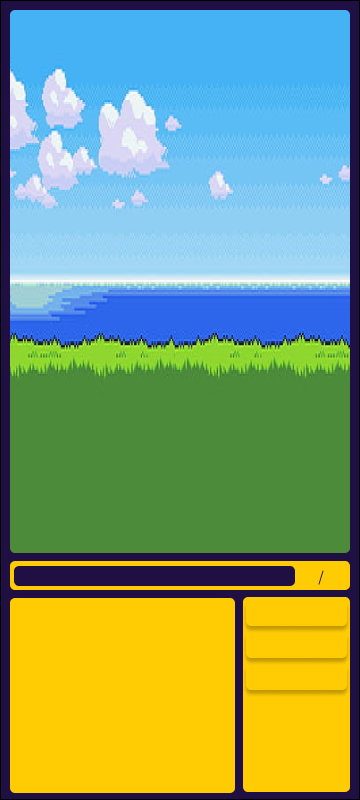
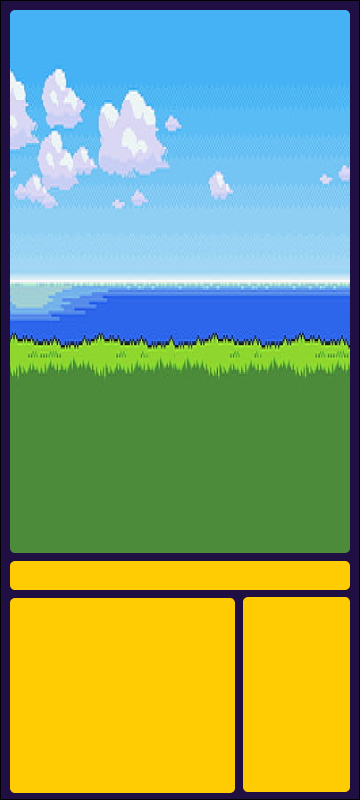
Update CSS

Changed region(s): [[0.0306, 0.6875, 0.825, 0.75], [0.6722, 0.7812, 0.9778, 0.875]]

diff --git a/vue/game/FightPVE.js b/vue/game/FightPVE.js
@@ -300,8 +300,8 @@ export default function FightPVE({ navigation, route }) {
   // Fonction de MAJ de la TextBox
   const updateTextBox = function (text) {
     textBox.unshift(text);
-    if (textBox.length > 10) {
-      textBox.length = 10;
+    if (textBox.length > 8) {
+      textBox.length = 8;
     }
     // MAJ d'une variable inutile pour MAJ affichage
     setMajTextBox(Math.random());
@@ -359,22 +359,23 @@ export default function FightPVE({ navigation, route }) {
           {/* HealthBar Adverse + Affichage Pokemon + Vie Pokemon sauvage*/}
           {showPokemonAdv && (
             <Shake value={advAnimation} type="timing">
-                <HealthBar
-                  styleHealthBar={styles.advHealthBar}
-                  progressHealthBar={advHealth / advMaxHealth}
-                  colorHealthBar={ColorHealthBar(advHealth / advMaxHealth)}
-                  widthHealthBar={100}
-                  heigthHealthBar={10}
-                />
-                <Image style={styles.imgAdvPokemon} source={srcAdvPokemon} />
-                <Text style={styles.advHealth}>{advHealth} /</Text>
-                <Text style={styles.advMaxHealth}>{advMaxHealth}</Text>
+              <HealthBar
+                styleHealthBar={styles.advHealthBar}
+                progressHealthBar={advHealth / advMaxHealth}
+                colorHealthBar={ColorHealthBar(advHealth / advMaxHealth)}
+                widthHealthBar={100}
+                heigthHealthBar={10}
+              />
+              <Image style={styles.imgAdvPokemon} source={srcAdvPokemon} />
+              <Text style={styles.advHealth}>
+                {advHealth} / {advMaxHealth}
+              </Text>
             </Shake>
           )}
           {/* Gestion affichage Pokemon */}
           {showOurPokemon && (
             <Shake value={ourAnimation} type="timing">
-                <Image style={styles.imgOurPokemon} source={srcOurPokemon} />
+              <Image style={styles.imgOurPokemon} source={srcOurPokemon} />
             </Shake>
           )}
           {/* Gestion affichage dresseur */}
@@ -393,8 +394,9 @@ export default function FightPVE({ navigation, route }) {
               heigthHealthBar={25}
             />
             {/* Affichage Notre Vie */}
-            <Text style={styles.ourHealth}>{ourHealth}</Text>
-            <Text style={styles.ourMaxHealth}>{ourMaxHealth}</Text>
+            <Text style={styles.ourHealth}>
+              {ourHealth} / {ourMaxHealth}
+            </Text>
           </View>
 
           <View style={styles.viewTextAndButton}>
@@ -402,7 +404,7 @@ export default function FightPVE({ navigation, route }) {
               {/* TextBox */}
               <View style={styles.textBox}>
                 {textBox.map((ligne) => {
-                  return <Text style={styles.pixelPolice}>● {ligne}</Text>;
+                  return <Text style={styles.lineOfTextBox}>● {ligne}</Text>;
                 })}
                 {/* Modal pour les attaques */}
                 <Modal
@@ -422,7 +424,7 @@ export default function FightPVE({ navigation, route }) {
                                 setShowModalAttack(!showModalAttack);
                             }}
                           >
-                            <Text style={styles.textModal}>{el.name}</Text>
+                            <Text style={styles.textButton}>{el.name}</Text>
                           </Pressable>
                         );
                       })}
@@ -432,7 +434,7 @@ export default function FightPVE({ navigation, route }) {
                           setShowModalAttack(!showModalAttack);
                         }}
                       >
-                        <Text style={styles.textModal}>RETOUR</Text>
+                        <Text style={styles.textButton}>RETOUR</Text>
                       </Pressable>
                     </View>
                   </View>
@@ -464,12 +466,12 @@ export default function FightPVE({ navigation, route }) {
                             }}
                           >
                             {el.needAlive && (
-                              <Text style={styles.textModal}>
+                              <Text style={styles.textButton}>
                                 {el.name} (+{el.effect}PV) x{el.qty}
                               </Text>
                             )}
                             {!el.needAlive && (
-                              <Text style={styles.textModal}>
+                              <Text style={styles.textButton}>
                                 {el.name} ({el.effect}% PV MAX) x{el.qty}
                               </Text>
                             )}
@@ -482,7 +484,7 @@ export default function FightPVE({ navigation, route }) {
                           setShowModalBag(!showModalBag);
                         }}
                       >
-                        <Text style={styles.textModal}>RETOUR</Text>
+                        <Text style={styles.textButton}>RETOUR</Text>
                       </Pressable>
                     </View>
                   </View>
@@ -511,7 +513,7 @@ export default function FightPVE({ navigation, route }) {
                                   setShowModalPokemon(!showModalPokemon);
                                 }}
                               >
-                                <Text style={styles.textModal}>
+                                <Text style={styles.textButton}>
                                   {el.label} - {el.PV["current"]}/{el.PV["max"]}
                                   PV
                                 </Text>
@@ -533,13 +535,13 @@ export default function FightPVE({ navigation, route }) {
                                 }}
                               >
                                 {index != numOurPokemon && (
-                                  <Text style={styles.textModal}>
+                                  <Text style={styles.textButton}>
                                     {el.label} - {el.PV["current"]}/
                                     {el.PV["max"]}PV
                                   </Text>
                                 )}
                                 {index == numOurPokemon && (
-                                  <Text style={styles.textModal}>
+                                  <Text style={styles.textButton}>
                                     {el.label}
                                   </Text>
                                 )}
@@ -560,7 +562,7 @@ export default function FightPVE({ navigation, route }) {
                                   setShowModalPokemon(!showModalPokemon);
                                 }}
                               >
-                                <Text style={styles.textModal}>
+                                <Text style={styles.textButton}>
                                   {el.label} - {el.PV["current"]}/{el.PV["max"]}
                                   PV
                                 </Text>
@@ -580,7 +582,7 @@ export default function FightPVE({ navigation, route }) {
                             setModalDisplayForChange(() => false);
                           }}
                         >
-                          <Text style={styles.textModal}>RETOUR</Text>
+                          <Text style={styles.textButton}>RETOUR</Text>
                         </Pressable>
                       )}
                     </View>
@@ -592,27 +594,27 @@ export default function FightPVE({ navigation, route }) {
             <View style={styles.viewButton}>
               {/* Bouttons */}
               {!hiddenButtonOfMenu && (
-                <View>
+                <View style={styles.viewButton}>
                   <Pressable
-                    style={styles.buttonAttack}
+                    style={styles.button}
                     onPress={() => setShowModalAttack(!showModalAttack)}
                   >
-                    <Text style={styles.pixelPolice}>ATTAQUER</Text>
+                    <Text style={styles.textButton}>ATTAQUER</Text>
                   </Pressable>
                   <Pressable
-                    style={styles.buttonBag}
+                    style={styles.button}
                     onPress={() => setShowModalBag(!showModalBag)}
                   >
-                    <Text style={styles.pixelPolice}>SAC</Text>
+                    <Text style={styles.textButton}>SAC</Text>
                   </Pressable>
                   <Pressable
-                    style={styles.buttonPokemon}
+                    style={styles.button}
                     onPress={() => {
                       setShowModalPokemon(!showModalPokemon);
                       setModalDisplayForChange(true);
                     }}
                   >
-                    <Text style={styles.pixelPolice}>POKéMON</Text>
+                    <Text style={styles.textButton}>POKéMON</Text>
                   </Pressable>
                 </View>
               )}
@@ -664,8 +666,8 @@ const styles = new StyleSheet.create({
     height: 300,
     resizeMode: "contain",
     position: "absolute",
-    top: 0,
-    left: 0,
+    top: 372,
+    left: 70,
   },
 
   imgAdvPokemon: {
@@ -674,7 +676,7 @@ const styles = new StyleSheet.create({
     resizeMode: "contain",
     position: "absolute",
     top: 0,
-    left: -120
+    left: -120,
   },
 
   imgOurPokemon: {
@@ -689,38 +691,15 @@ const styles = new StyleSheet.create({
   // TEXTBOX et TEXTE
   textBox: {
     position: "absolute",
-    top: 2,
-    left: 15,
+    width: "100%",
   },
 
-  pixelPolice: {
+  lineOfTextBox: {
+    marginLeft: 15,
+    textAlign: "justify",
     fontFamily: "SHPinscher",
     color: "#1F0F42",
-    fontSize: 15,
-  },
-
-  textModal: {
-    textAlign: "center",
-    color: "#1F0F42",
-    fontSize: 15,
-    padding: 3,
-    fontFamily: "SHPinscher",
-  },
-
-  ourHealth: {
-    position: "absolute",
-    top: 9,
-    left: 393,
-    fontFamily: "SHPinscher",
-    color: "#1F0F42",
-  },
-
-  ourMaxHealth: {
-    position: "absolute",
-    top: 9,
-    left: 423,
-    fontFamily: "SHPinscher",
-    color: "#1F0F42",
+    fontSize: 18,
   },
 
   advHealth: {
@@ -731,46 +710,25 @@ const styles = new StyleSheet.create({
     color: "#1F0F42",
   },
 
-  advMaxHealth: {
-    position: "absolute",
-    top: 9,
-    left: 110,
+  // BOUTTONS MENU
+  button: {
+    backgroundColor: "#FFCC03",
+    elevation: 1,
+    height: 35,
+    width: 120,
+    marginTop: 5,
+    borderRadius: 5,
+  },
+
+  textButton: {
+    textAlign: "center",
     fontFamily: "SHPinscher",
     color: "#1F0F42",
-  },
-
-  // BOUTTONS MENU
-  buttonAttack: {
-    position: "absolute",
-    top: -120,
-    left: -24,
-    height: 35,
-    width: 150,
-  },
-
-  buttonBag: {
-    position: "absolute",
-    top: -78,
-    left: -10,
-    height: 35,
-    width: 150,
-  },
-
-  buttonPokemon: {
-    position: "absolute",
-    top: -35,
-    left: -22,
-    height: 35,
-    width: 150,
+    fontSize: 18,
+    padding: 3,
   },
 
   // HEALTHBAR
-  ourHealthBar: {
-    position: "absolute",
-    top: 7,
-    left: 16,
-    borderRadius: 5,
-  },
 
   advHealthBar: {
     position: "absolute",
@@ -794,11 +752,24 @@ const styles = new StyleSheet.create({
   },
 
   viewOurHealthBar: {
+    flexDirection: "row",
     width: "100%",
     height: "14%",
-    justifyContent: "center",
+    justifyContent: "space-evenly",
     alignItems: "center",
     position: "relative",
+  },
+
+  ourHealthBar: {
+    marginLeft: 5,
+    marginBottom: 2,
+    borderRadius: 5,
+  },
+
+  ourHealth: {
+    fontFamily: "SHPinscher",
+    fontSize: 15,
+    color: "#1F0F42",
   },
 
   viewText: {
@@ -812,7 +783,6 @@ const styles = new StyleSheet.create({
   viewButton: {
     width: "33.5%",
     height: "100%",
-    justifyContent: "center",
     alignItems: "center",
     position: "relative",
   },
@@ -821,7 +791,6 @@ const styles = new StyleSheet.create({
     flexDirection: "row",
     width: "100%",
     height: "86%",
-
     position: "relative",
   },
 });

diff --git a/components/HealthBar/HealthBar.js b/components/HealthBar/HealthBar.js
@@ -9,6 +9,7 @@ const HealthBar = (props) => {
       color={props.colorHealthBar}
       width={props.widthHealthBar}
       height={props.heigthHealthBar}
+      unfilledColor="#1F0F42"
     />
   );
 };
